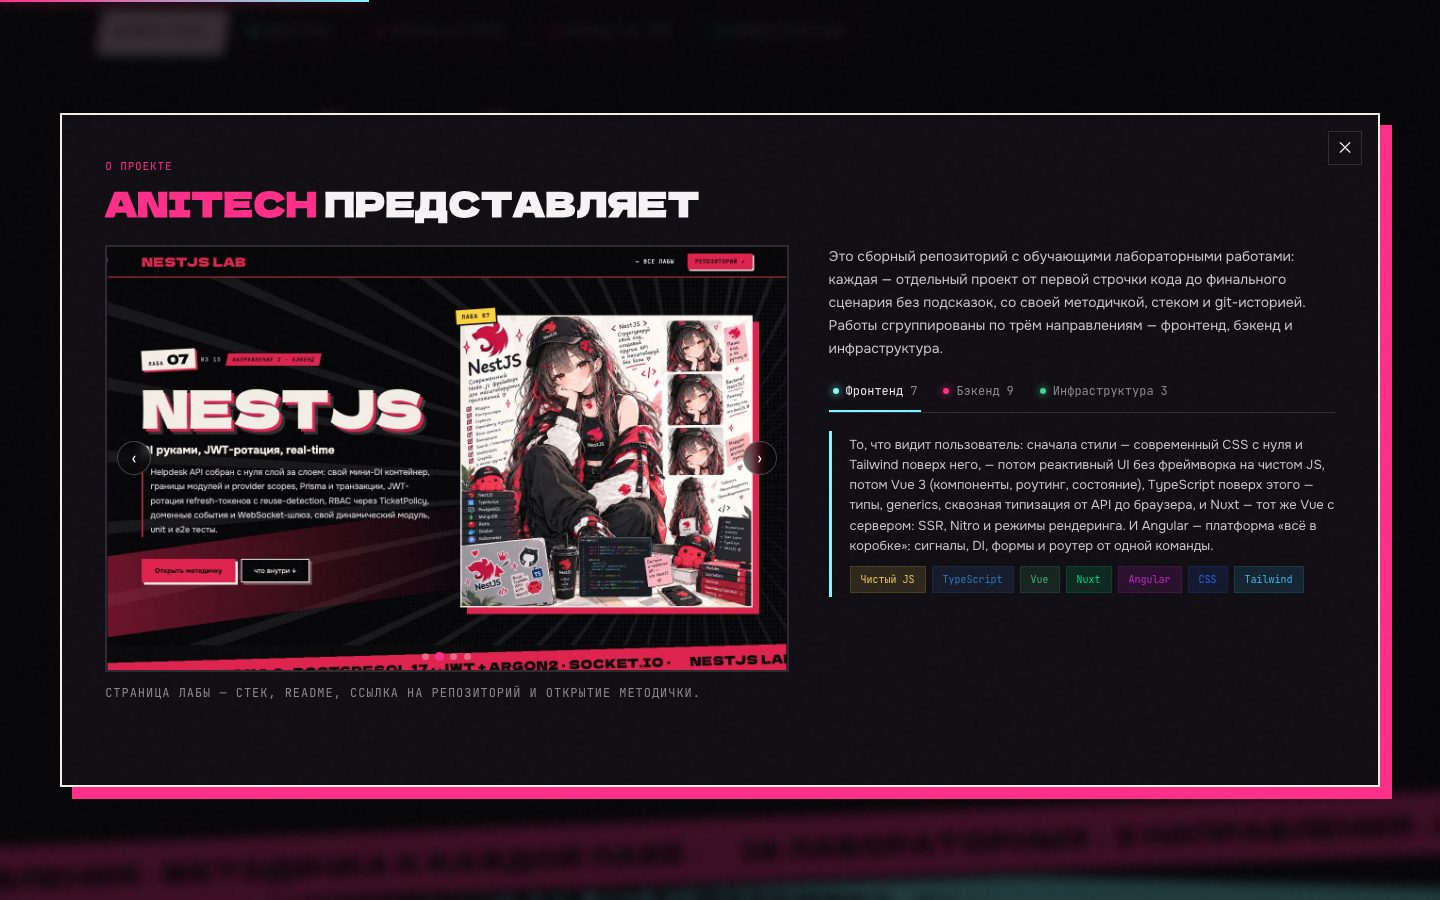
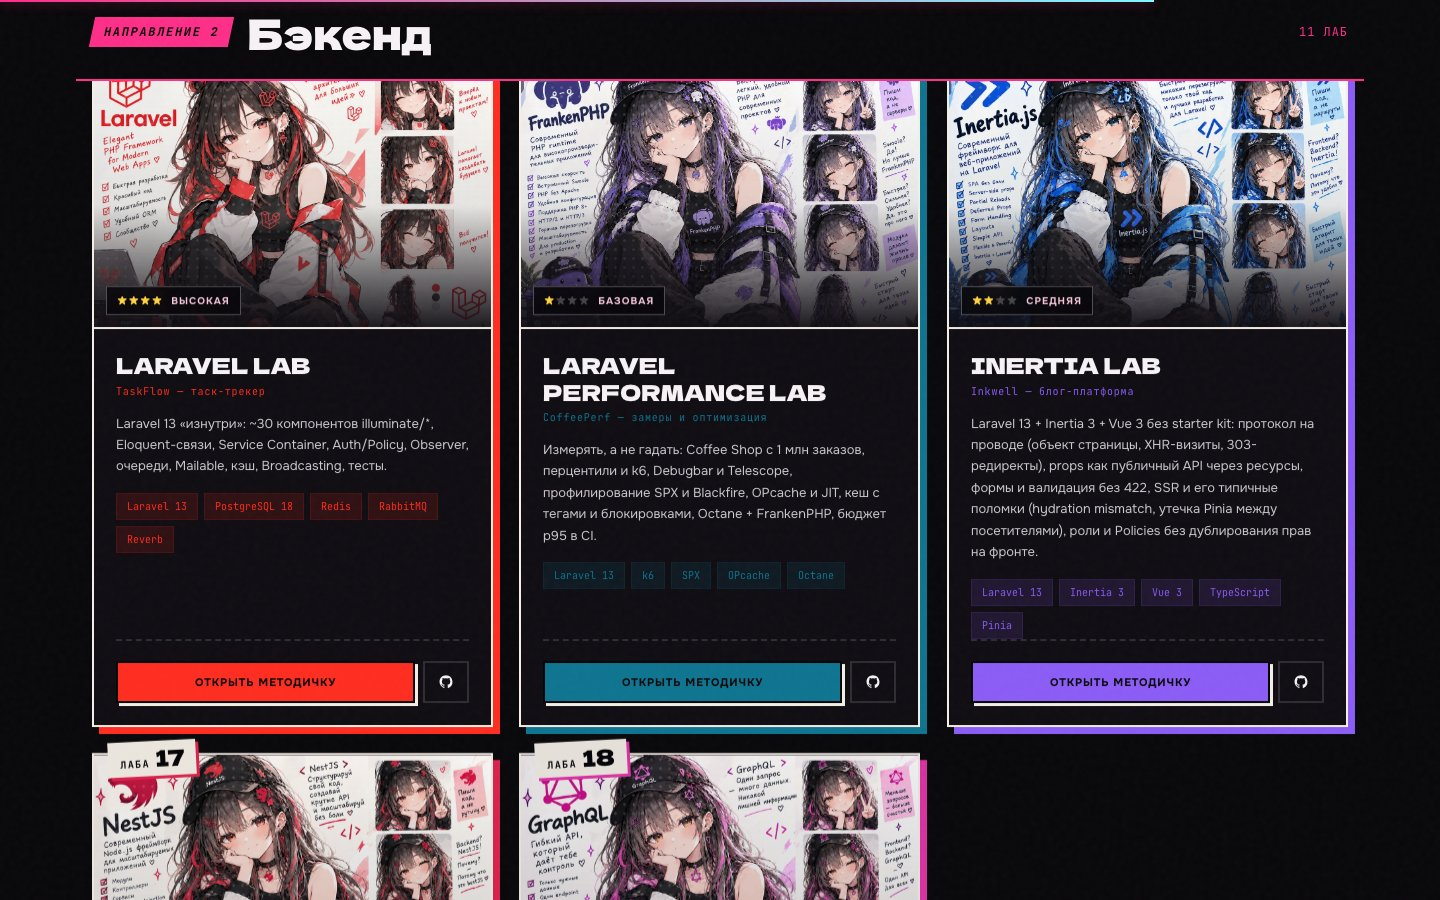
CLAUDE.md: state log section; refresh 1-cards screenshot (21 labs)

diff --git a/CLAUDE.md b/CLAUDE.md
@@ -89,6 +89,26 @@
 
 Частая ошибка в методичках: в ссылках на другие лабы путают «раздел N» (теория) и «сессия N» (практика). При вычитке сверять с настоящей нумерацией.
 
+## Журнал состояния — вести ВСЕГДА (правило пользователя, 04.10.2026)
+
+Пользователь устал повторять «мы это уже делали»: **после каждой законченной работы (не в конце сессии) сразу дописывать сюда, что сделано и что осталось**; перед началом работы читать этот раздел и не переделывать сделанное. Подробности по лабам — в `fixes/<направление>/<лаба>.md` (разделы «Вычитка», «Сухой прогон», «Решение») и `fixes/common/_proofread.md`; хронология для пользователя — `works/changelog.html`.
+
+**Сделано (на 04.10.2026):**
+- Лаб 21. Добавлены `laravel-performance` (CoffeePerf, 9 сессий) и `algorithms-php` (CoffeeAlgo, 13 сессий), обе «Базовая» (пользователь просил лёгкие); интегрированы по чек-листу целиком.
+- Вычитка закончена у всех 21 методичек (Perf 21 находка, Algo 22, Inertia 30); у Inertia часть пунктов оставлена — список в конце `fixes/backend/inertia.md`.
+- Сухие прогоны в Docker: **Algorithms PHP — полностью** (26 файлов тестов зелёные, найдены и исправлены 3 ошибки); **Laravel Performance — частично**: сессии 1–6 и шаги 7.1–7.2 (много исправлений, главное — кеш `Collection` ломается в Laravel 13, OPcache уже включён в образе, `route:cache` кеширует замыкания); **Inertia — только 1.1–1.3**; остальные лабы — как в таблице `IDEAS_AND_QUESTIONS.md` (03.10).
+- Сайт: карта маршрутов (PHP-дорожка из 7 шагов + строка ответвлений со стрелками вниз: `algorithms-php` под `php-coffee`, `laravel-performance` под `laravel`); `works/progress.html` (все работы, картинки, прогресс из `localStorage`) и `works/changelog.html` перенесены в `works/`; пункт «прогресс» в шапках; в каждой методичке кнопка «Все работы» рядом с поиском и темой, переход по якорю (`goHash`), защита от мигания поиска (`x-dc{display:none}`); оглавление в модалке лабы читается из `window.LAB`. Скрипты: `tools/build-progress.py`, `tools/patch-manuals.py` (идемпотентны, запускать после перевыгрузки методички), `tools/check-site.py` проверяет и это.
+- Браузерная проверка есть: **Playwright + Chromium установлены** (`~/Library/Caches/ms-playwright`; скрипты в scratchpad, `npm i playwright` в временной папке; сервер — `python3 -m http.server 8765` из корня). Проверены главная, карта маршрутов, карточки, `works/progress.html`, методичка с якорями — всё работает; скриншоты — `screenshots-check/2026-10-04/`; `docs/screenshots/1-cards.jpg` переснят (21 лаба).
+- Пустой `~/.git` (моя ошибка) пользователь удалил. Старых ссылок на `/changelog.html` в репозитории нет.
+
+**Открыто / не сделано:**
+1. Laravel Performance: сухой прогон 7.3 (**повторить** сравнение FPM и Octane — первый замер испорчен 500 на отчёте), 7.4, 8.1–8.4, 9.1–9.4; Blackfire (4.5) нужен аккаунт пользователя. Стенд прогона лежал только в scratchpad (мог пропасть) — собирать заново по блокам методички.
+2. «Глаза» в браузере (теперь возможны через Playwright): CSS, Tailwind, Vue, Nuxt, Angular — пройти шаги 2+ и сверить с методичкой (не начато); Inertia — сессии 2–8 и нерешённые пункты (сборка SSR 3.3 против 6.2, нумерация «ПЕРЕД СЕССИЕЙ N», роль против флагов `can`, два enum в 2.1, таблица раздела 10).
+3. Сухие прогоны Laravel (2–9), NestJS (4–9), GraphQL (3–6) — см. `IDEAS_AND_QUESTIONS.md`.
+4. Учебный план пользователя (раздел ниже) — прохождение: ООП с шага 1.1 → Docker → Чистый PHP → PostgreSQL → Redis → Laravel; две новые лабы вставляются рядом с PHP и Laravel.
+
+**Уроки для себя (не повторять):** не запускать фоновые циклы, перезапускающие контейнеры; `docker ps -q | xargs docker kill` убивает всё — только `--filter name=…`; перед тяжёлыми прогонами (k6 stress/spike, сборка образов) предупреждать — ноутбук пользователя греется; в каждом k6-замере проверять `http_req_failed`; `bundle.transform` проверяет JSON уже после записи — при правках методичек сначала проверять строку, а потом писать.
+
 ## План обучения (согласован 26.09.2026)
 
 Приоритет — **бэкенд**, Docker — немного.
